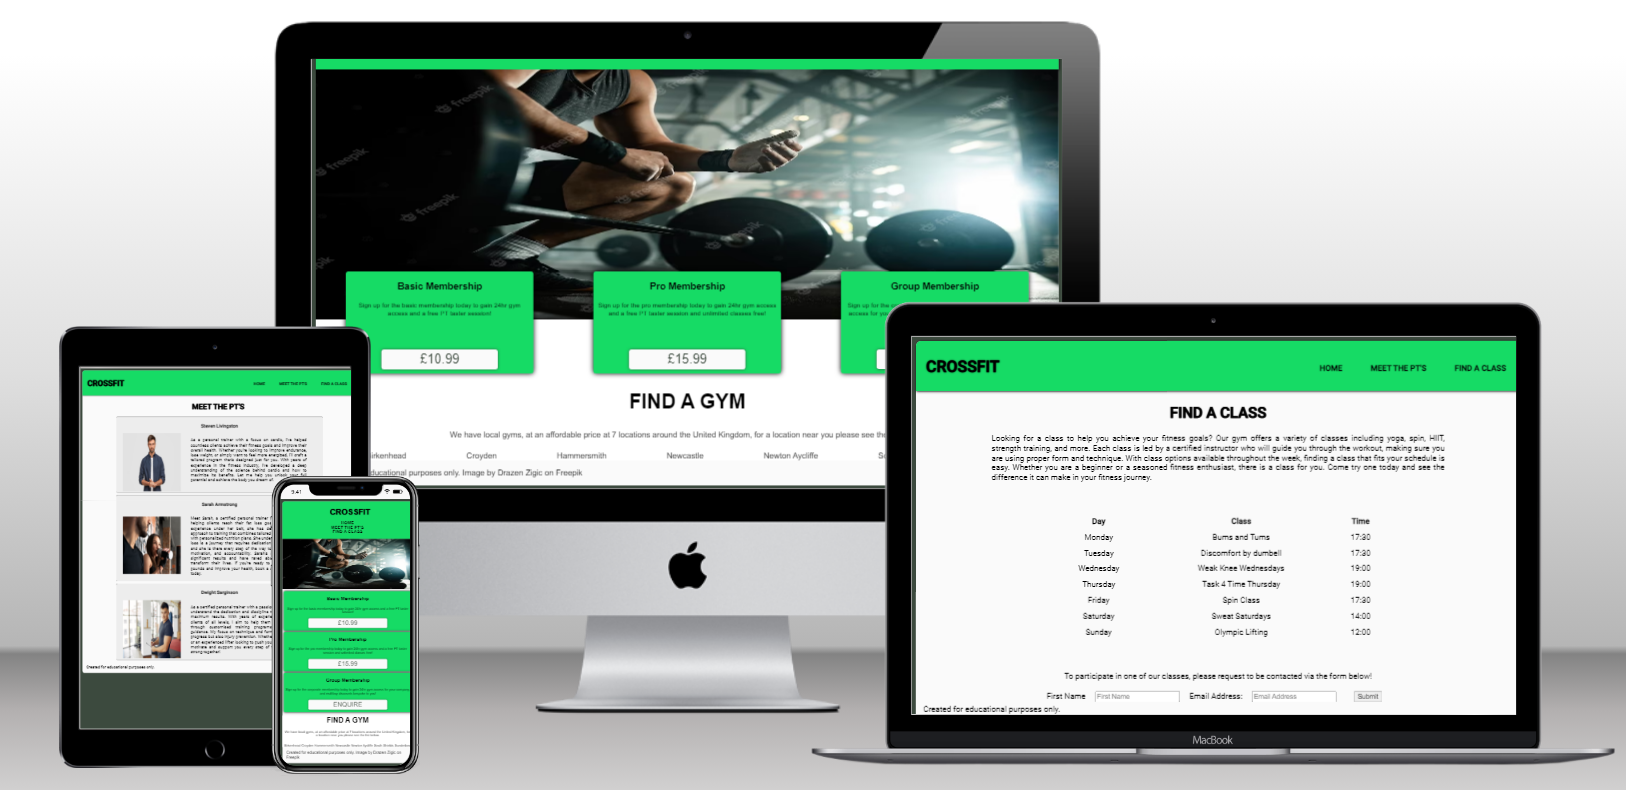
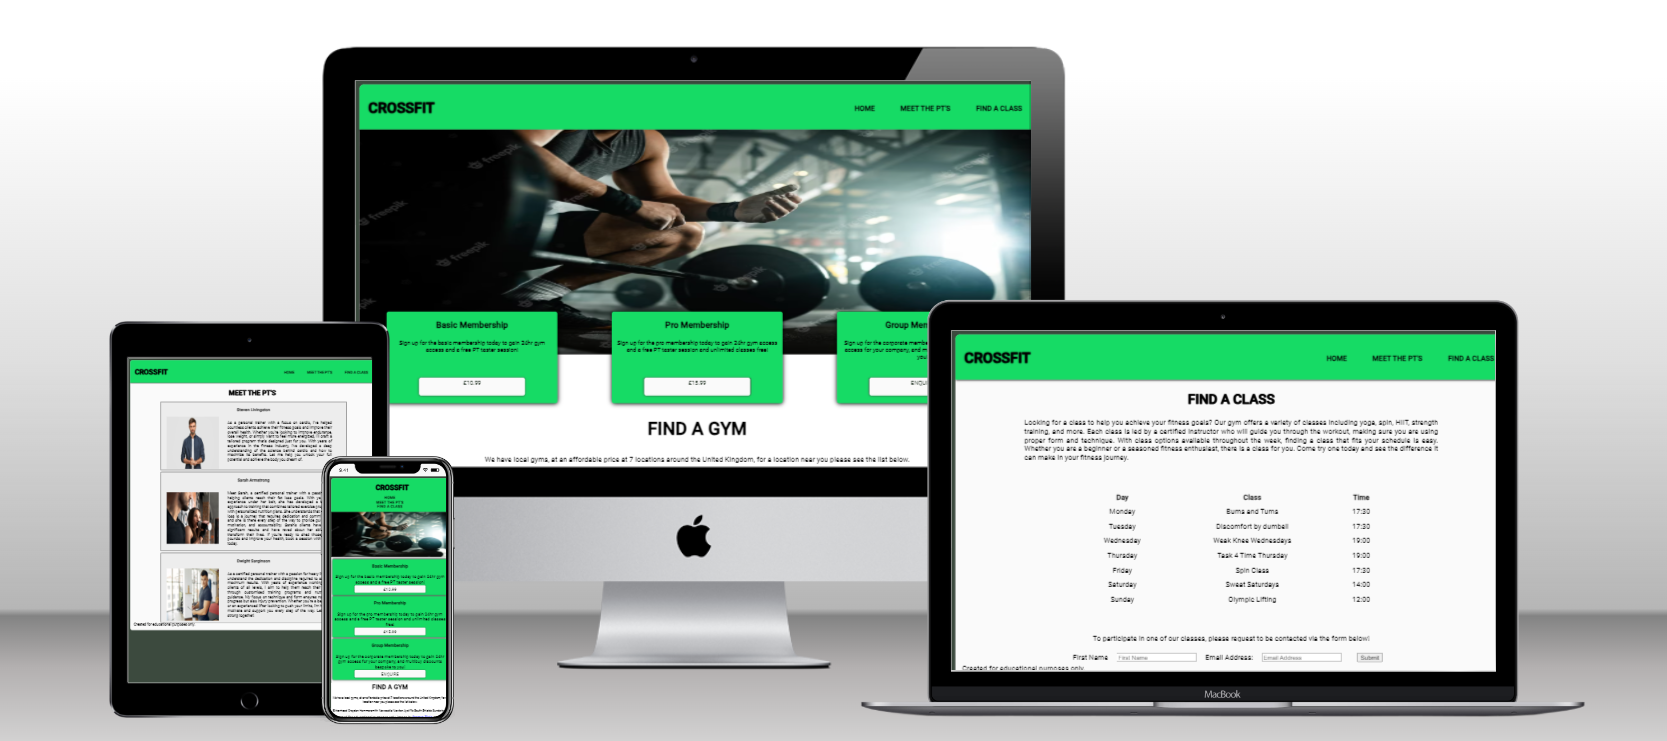
Resave of site mockup image
Redone site mock up image to show different image
Restyled price card paragraphs as validator picked up multiple duplicate ID's for future buttons, so changed it to classes to bypass error

diff --git a/assets/css/style.css b/assets/css/style.css
@@ -92,7 +92,7 @@ header {
     font-size: 1.2rem;
 }
 
-#future-button {
+.future-button {
     color: #3C4A3E;
     background-color: #fafafa;
     border-radius: 5px;
@@ -246,6 +246,7 @@ table a {
 
     .card p {
         height: auto;
+        font-size: 1.2rem;
     }
 
     .hero-image {
@@ -362,6 +363,10 @@ table a {
         margin-bottom: 5px;
         font-size: 0.8rem;
 
+    }
+
+    .card p{
+        font-size: 0.9rem;
     }
 
     .navigation a {
